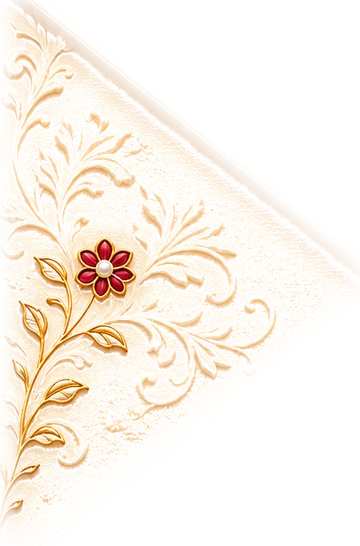
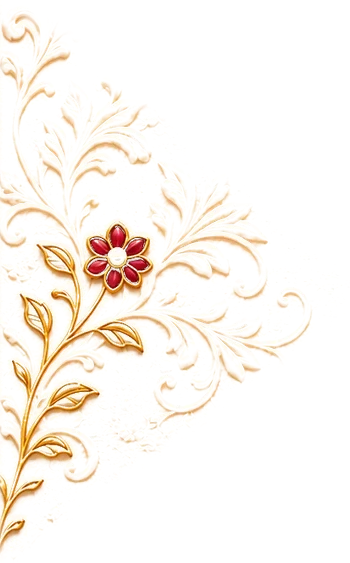
One texture everywhere: velvet on maroon, paper on cream (envelope inside, card, page, family panel, date box)
Claude-Session: https://claude.ai/code/session_01A7U3bhfqdo6UgM5ft2nzAm

Changed region(s): [[0.0, 0.0, 0.9429, 0.9963], [0.8571, 0.5293, 0.8857, 0.5916]]

diff --git a/styles.css b/styles.css
@@ -504,3 +504,29 @@ html[data-theme="groom"] #wishForm input, html[data-theme="groom"] #wishForm tex
   background:#FBF5EA; border:1px solid rgba(201,160,78,.8);
   box-shadow:inset 0 2px 4px rgba(120,80,30,.12), inset 0 -1px 0 rgba(255,255,255,.8); }
 @media (max-width:360px){ .tv{ width:100px; height:160px; } }
+
+/* ---------- One texture everywhere: velvet on maroon surfaces, paper on cream ---------- */
+:root{
+  --tex-velvet:linear-gradient(rgba(91,19,35,.30),rgba(91,19,35,.30)), url(img/theme/velvet.webp) 0 0/260px auto repeat, #5B1323;
+  --tex-paper:url(img/theme/paper.webp) 0 0/320px auto repeat, #F3E9D5;
+}
+/* page behind the envelope and around the card */
+html[data-theme="groom"] body{ background:radial-gradient(120% 70% at 50% 30%, rgba(140,40,64,.35), transparent 70%), var(--tex-velvet); background-attachment:fixed; }
+html[data-theme="bride"] body{ background:var(--tex-paper); background-attachment:fixed; }
+/* card that slides out of the envelope */
+html[data-theme="bride"] .env-card{ background:var(--tex-velvet); }
+html[data-theme="groom"] .env-card{ background:var(--tex-paper); }
+/* inside of the envelope and inner side of the flap */
+html[data-theme="bride"] .env-back, html[data-theme="bride"] .env-flap-back{ background:linear-gradient(rgba(40,0,8,.35),rgba(40,0,8,.35)), url(img/theme/velvet.webp) 0 0/260px auto repeat, #4a0812; }
+html[data-theme="groom"] .env-back, html[data-theme="groom"] .env-flap-back{ background:linear-gradient(rgba(150,110,60,.10),rgba(150,110,60,.10)), url(img/theme/paper.webp) 0 0/320px auto repeat, #EADCBE; }
+/* date box face */
+html[data-theme="bride"] .datebox-face{ background:url(img/mandala.webp) center/120% no-repeat, var(--tex-paper); background-blend-mode:soft-light, normal, normal; }
+html[data-theme="groom"] .datebox-face{ background:url(img/mandala.webp) center/120% no-repeat, var(--tex-velvet); background-blend-mode:soft-light, normal, normal, normal; }
+/* family panel: arch top and body share one continuous texture */
+.family{ container-type:inline-size; }
+.family-cap{ width:100%; aspect-ratio:700/506; height:auto;
+  -webkit-mask:url(img/arch-cap-cream.webp) center/100% 100% no-repeat; mask:url(img/arch-cap-cream.webp) center/100% 100% no-repeat; }
+html[data-theme="groom"] .family-cap{ background:linear-gradient(rgba(91,19,35,.30),rgba(91,19,35,.30)), url(img/theme/velvet.webp) 0 0/260px auto repeat, #5B1323; }
+html[data-theme="groom"] .family-body{ background:linear-gradient(rgba(91,19,35,.30),rgba(91,19,35,.30)), url(img/theme/velvet.webp) calc(-1.63cqw) calc(-72.29cqw)/260px auto repeat, #5B1323; }
+html[data-theme="bride"] .family-cap{ background:url(img/theme/paper.webp) 0 0/320px auto repeat, #F3E9D5; }
+html[data-theme="bride"] .family-body{ background:url(img/theme/paper.webp) calc(-1.63cqw) calc(-72.29cqw)/320px auto repeat, #F3E9D5; }

diff --git a/index.html b/index.html
@@ -116,8 +116,7 @@
 
   <!-- 6. Families -->
   <section class="family rv" aria-labelledby="familyTitle">
-    <img class="family-cap only-groom" src="img/arch-cap-maroon.webp" alt="">
-    <img class="family-cap only-bride" src="img/arch-cap-cream.webp" alt="">
+    <div class="family-cap" aria-hidden="true"></div>
     <div class="family-body">
       <img class="corner corner-l" src="img/corner-gold-1.webp" alt="">
       <img class="corner corner-r" src="img/corner-gold-1.webp" alt="">
